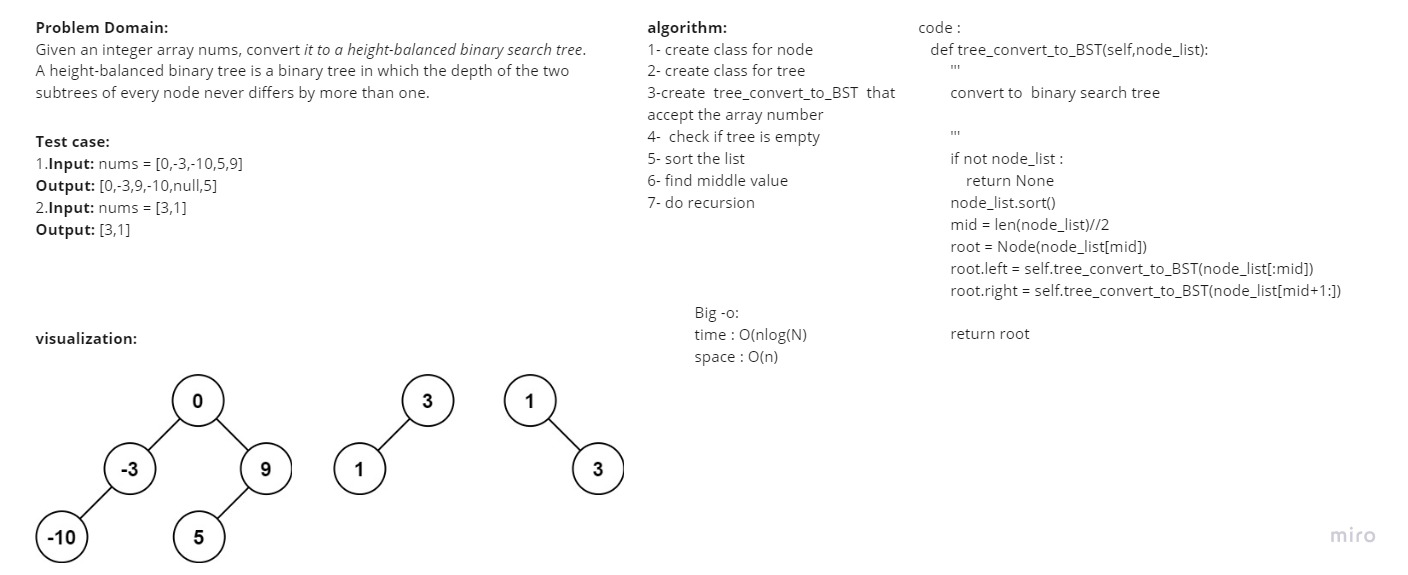
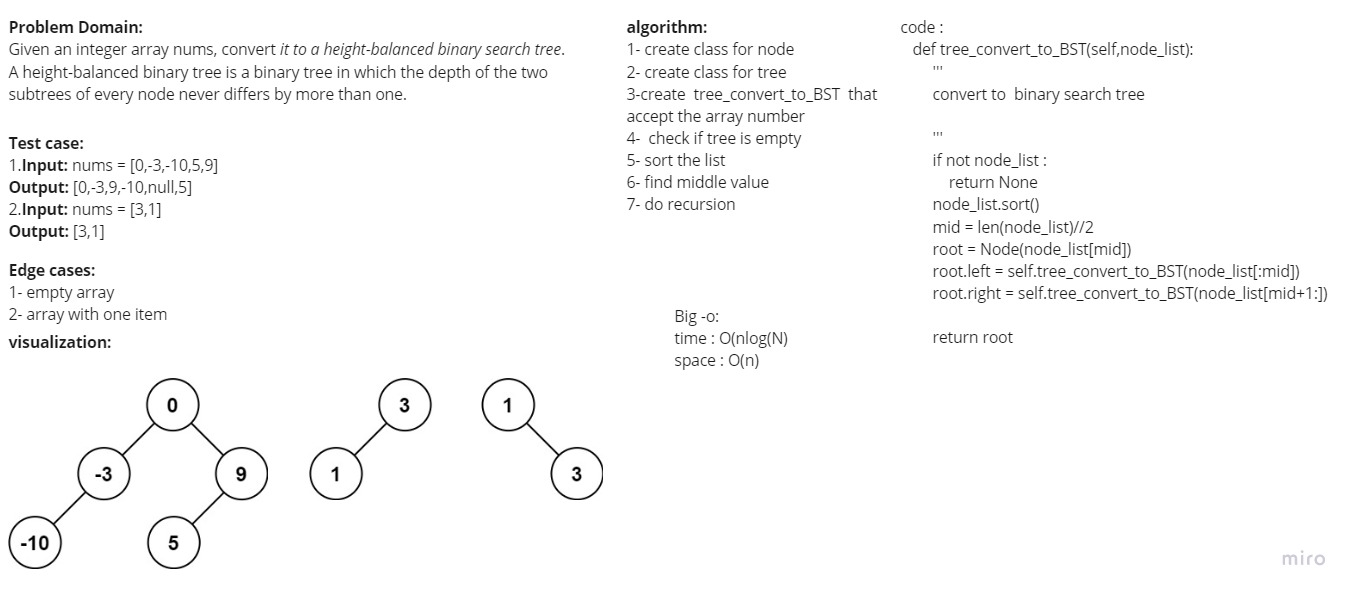
feat:add all the feature that was miss to the code

diff --git a/python/code_challenges/tree/challenge03/challenge03.py b/python/code_challenges/tree/challenge03/challenge03.py
@@ -34,7 +34,12 @@ class Tree:
         convert to  binary search tree
         
         '''
-        if not node_list :
+        if len(node_list) == 0:
+
+            return None
+        elif len(node_list)==1:
+            return Node(node_list[0])
+        elif not node_list :
             return None
         node_list.sort()
         mid = len(node_list)//2
@@ -43,3 +48,9 @@ class Tree:
         root.right = self.tree_convert_to_BST(node_list[mid+1:])
     
         return root
+
+if __name__ == "__main__":
+    tree=Tree()
+    node_list= [0,-3,-10,5,9]
+    root=tree.tree_convert_to_BST(node_list)
+    print(tree.print_tree(root))
